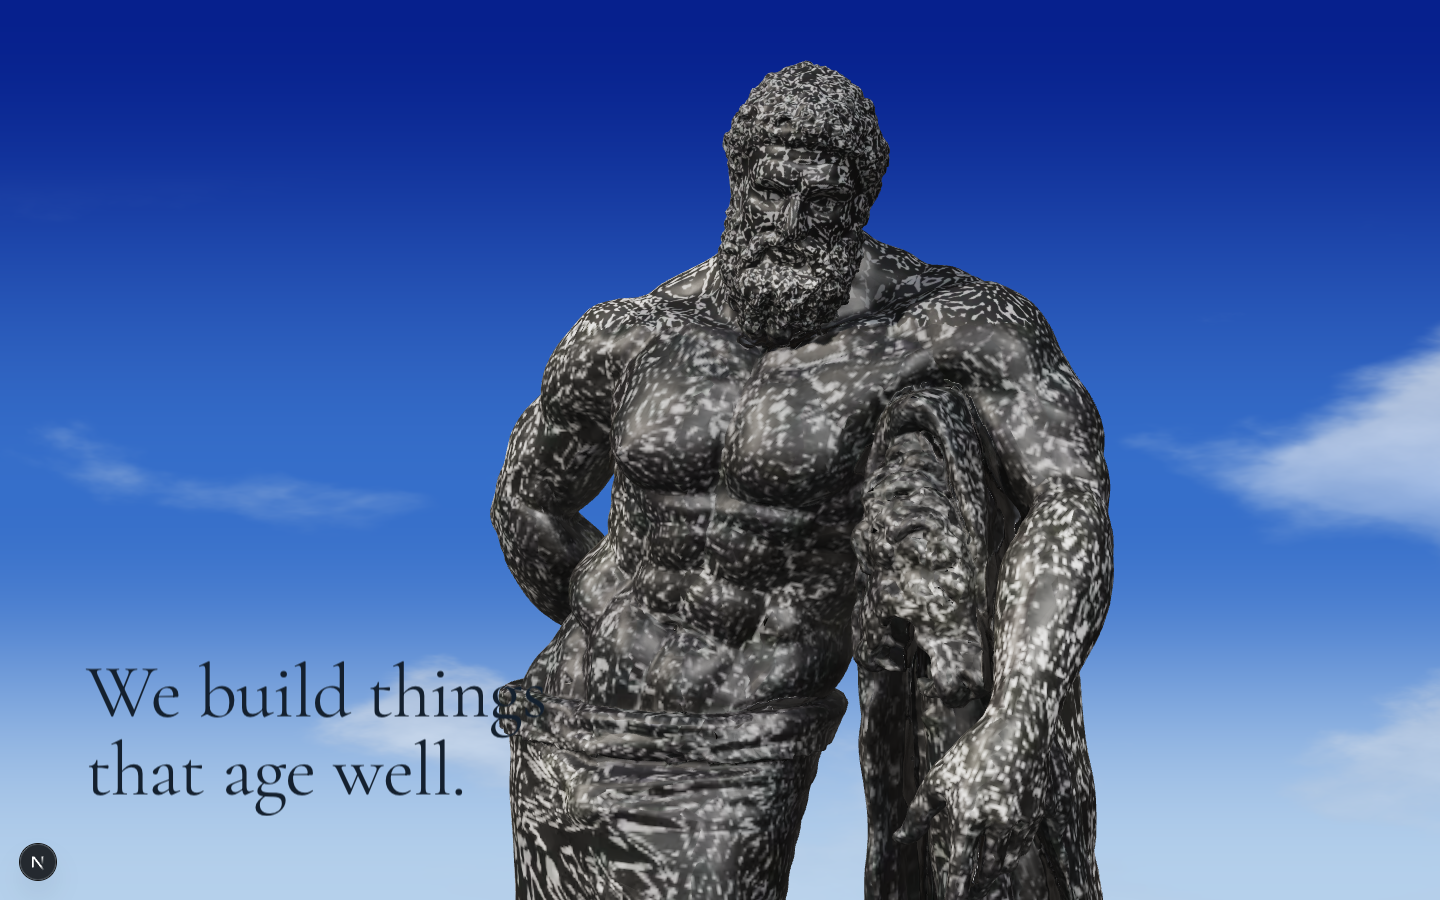
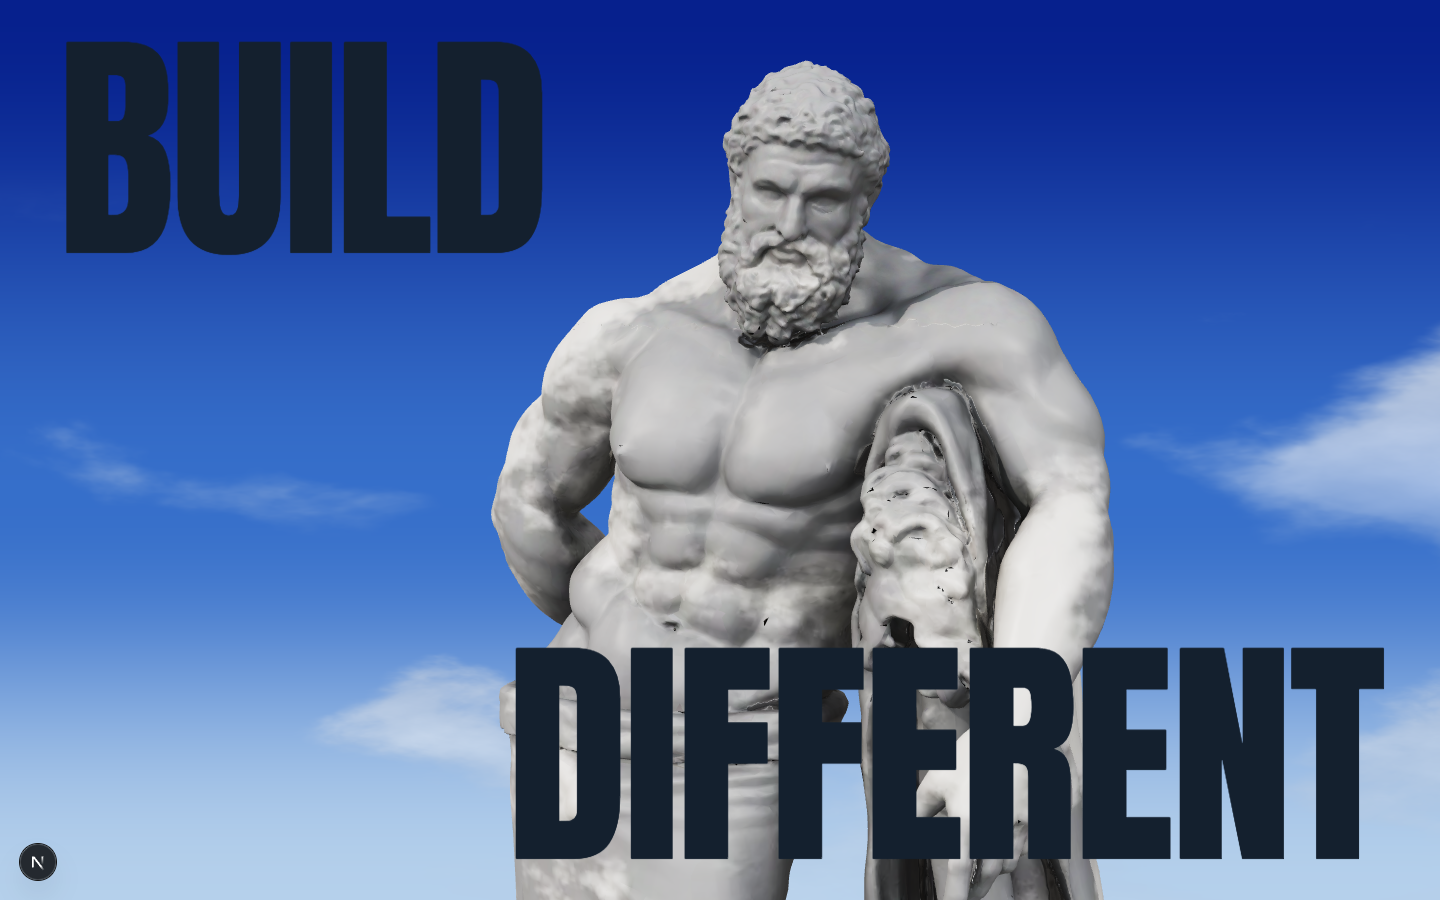
Opening wordmark: BUILD top left, DIFFERENT bottom right, in Anton
Claude-Session: https://claude.ai/code/session_01NAdPXLUXCGhh82qBsMYyAh

diff --git a/src/app/globals.css b/src/app/globals.css
@@ -16,6 +16,7 @@
 
   --font-display: var(--font-display-src), "Cormorant Garamond", "Times New Roman", serif;
   --font-body: var(--font-body-src), "Hanken Grotesk", system-ui, sans-serif;
+  --font-wordmark: var(--font-wordmark-src), Anton, Impact, "Arial Narrow Bold", sans-serif;
 
   /* type scale, 1.25 ratio from 1rem */
   --step--1: 0.8rem;
@@ -127,16 +128,29 @@ body {
 .copy button {
   pointer-events: auto;
 }
-.copy--headline {
-  left: clamp(1.25rem, 6vw, 6rem);
-  bottom: clamp(1.5rem, 10vh, 7rem);
-  font-family: var(--font-display);
+/* the opening frame: BUILD top left, DIFFERENT bottom right, in a heavy condensed grotesk */
+.copy--wordmark {
+  max-width: none;
+  font-family: var(--font-wordmark);
   font-weight: 400;
-  font-size: clamp(var(--step-4), 6.5vw, var(--step-7));
-  line-height: 1.02;
-  letter-spacing: -0.01em;
-  max-width: 14ch;
-  animation: headline-in 400ms ease-out 120ms both;
+  text-transform: uppercase;
+  font-size: clamp(4.5rem, 17vw, 24rem);
+  line-height: 0.82;
+  letter-spacing: -0.015em;
+  color: var(--ink);
+  animation: headline-in 500ms ease-out 120ms both;
+}
+.copy--wordmark span {
+  position: absolute;
+  white-space: nowrap;
+}
+.copy--wordmark .word--build {
+  left: clamp(1rem, 4vw, 4rem);
+  top: clamp(0.75rem, 3.5vw, 3.5rem);
+}
+.copy--wordmark .word--different {
+  right: clamp(1rem, 4vw, 4rem);
+  bottom: clamp(0.5rem, 3vw, 3rem);
 }
 .copy--block {
   left: clamp(1.25rem, 6vw, 6rem);
@@ -184,7 +198,7 @@ body {
 
 .scroll-hint {
   position: absolute;
-  right: clamp(1.25rem, 6vw, 6rem);
+  left: clamp(1.25rem, 6vw, 6rem);
   bottom: clamp(1.5rem, 10vh, 7rem);
   z-index: 2;
   font-size: var(--step--1);
@@ -194,6 +208,10 @@ body {
 }
 
 /* static and reduced motion: copy blocks stack in flow under the still */
+.hero.is-static .copy--wordmark span {
+  position: static;
+  display: block;
+}
 .hero.is-static .copy {
   position: static;
   opacity: 1;

diff --git a/src/app/layout.tsx b/src/app/layout.tsx
@@ -1,5 +1,5 @@
 import type { Metadata } from "next";
-import { Cormorant_Garamond, Hanken_Grotesk } from "next/font/google";
+import { Anton, Cormorant_Garamond, Hanken_Grotesk } from "next/font/google";
 import "./globals.css";
 
 const display = Cormorant_Garamond({
@@ -7,6 +7,12 @@ const display = Cormorant_Garamond({
   subsets: ["latin"],
   weight: ["400", "500"],
   style: ["normal", "italic"],
+});
+
+const wordmark = Anton({
+  variable: "--font-wordmark-src",
+  subsets: ["latin"],
+  weight: "400",
 });
 
 const body = Hanken_Grotesk({
@@ -21,7 +27,7 @@ export const metadata: Metadata = {
 
 export default function RootLayout({ children }: LayoutProps<"/">) {
   return (
-    <html lang="en" className={`${display.variable} ${body.variable} h-full antialiased`}>
+    <html lang="en" className={`${display.variable} ${body.variable} ${wordmark.variable} h-full antialiased`}>
       <body className="min-h-full">{children}</body>
     </html>
   );

diff --git a/src/hero/Copy.tsx b/src/hero/Copy.tsx
@@ -29,8 +29,9 @@ export function Copy({ isStatic }: { isStatic: boolean }) {
 
   return (
     <div className={isStatic ? "hero__copy-stack" : undefined}>
-      <h1 className="copy copy--headline" ref={set("headline1")} style={isStatic ? undefined : { opacity: 1 }}>
-        {COPY.headline1}
+      <h1 className="copy copy--wordmark" ref={set("headline1")} style={isStatic ? undefined : { opacity: 1, inset: 0 }}>
+        <span className="word--build">{COPY.wordmark[0]}</span>
+        <span className="word--different">{COPY.wordmark[1]}</span>
       </h1>
       <p className="copy copy--block" ref={set("block1")}>
         {COPY.block1}

diff --git a/src/hero/lines.ts b/src/hero/lines.ts
@@ -1,6 +1,7 @@
 /** Every line of copy on the hero. Sentence case, plain, declarative. */
 export const COPY = {
   preloader: "Cutting the marble.",
+  wordmark: ["Build", "Different"],
   headline1: "We build things that age well.",
   block1: "Permanence used to take a quarry, a chisel and most of a lifetime. The brief has not changed. The material has.",
   block2: "Nothing on the internet is carved. Everything is rendered, and most of it is rendered badly.",

diff --git a/src/hero/progress.ts b/src/hero/progress.ts
@@ -11,5 +11,6 @@ export function onProgress(fn: Listener): () => void {
 
 export function setProgress(p: number) {
   progress.p = p;
+  if (typeof window !== "undefined") (window as unknown as { __bdProgress?: number }).__bdProgress = p;
   for (const fn of listeners) fn(p);
 }
